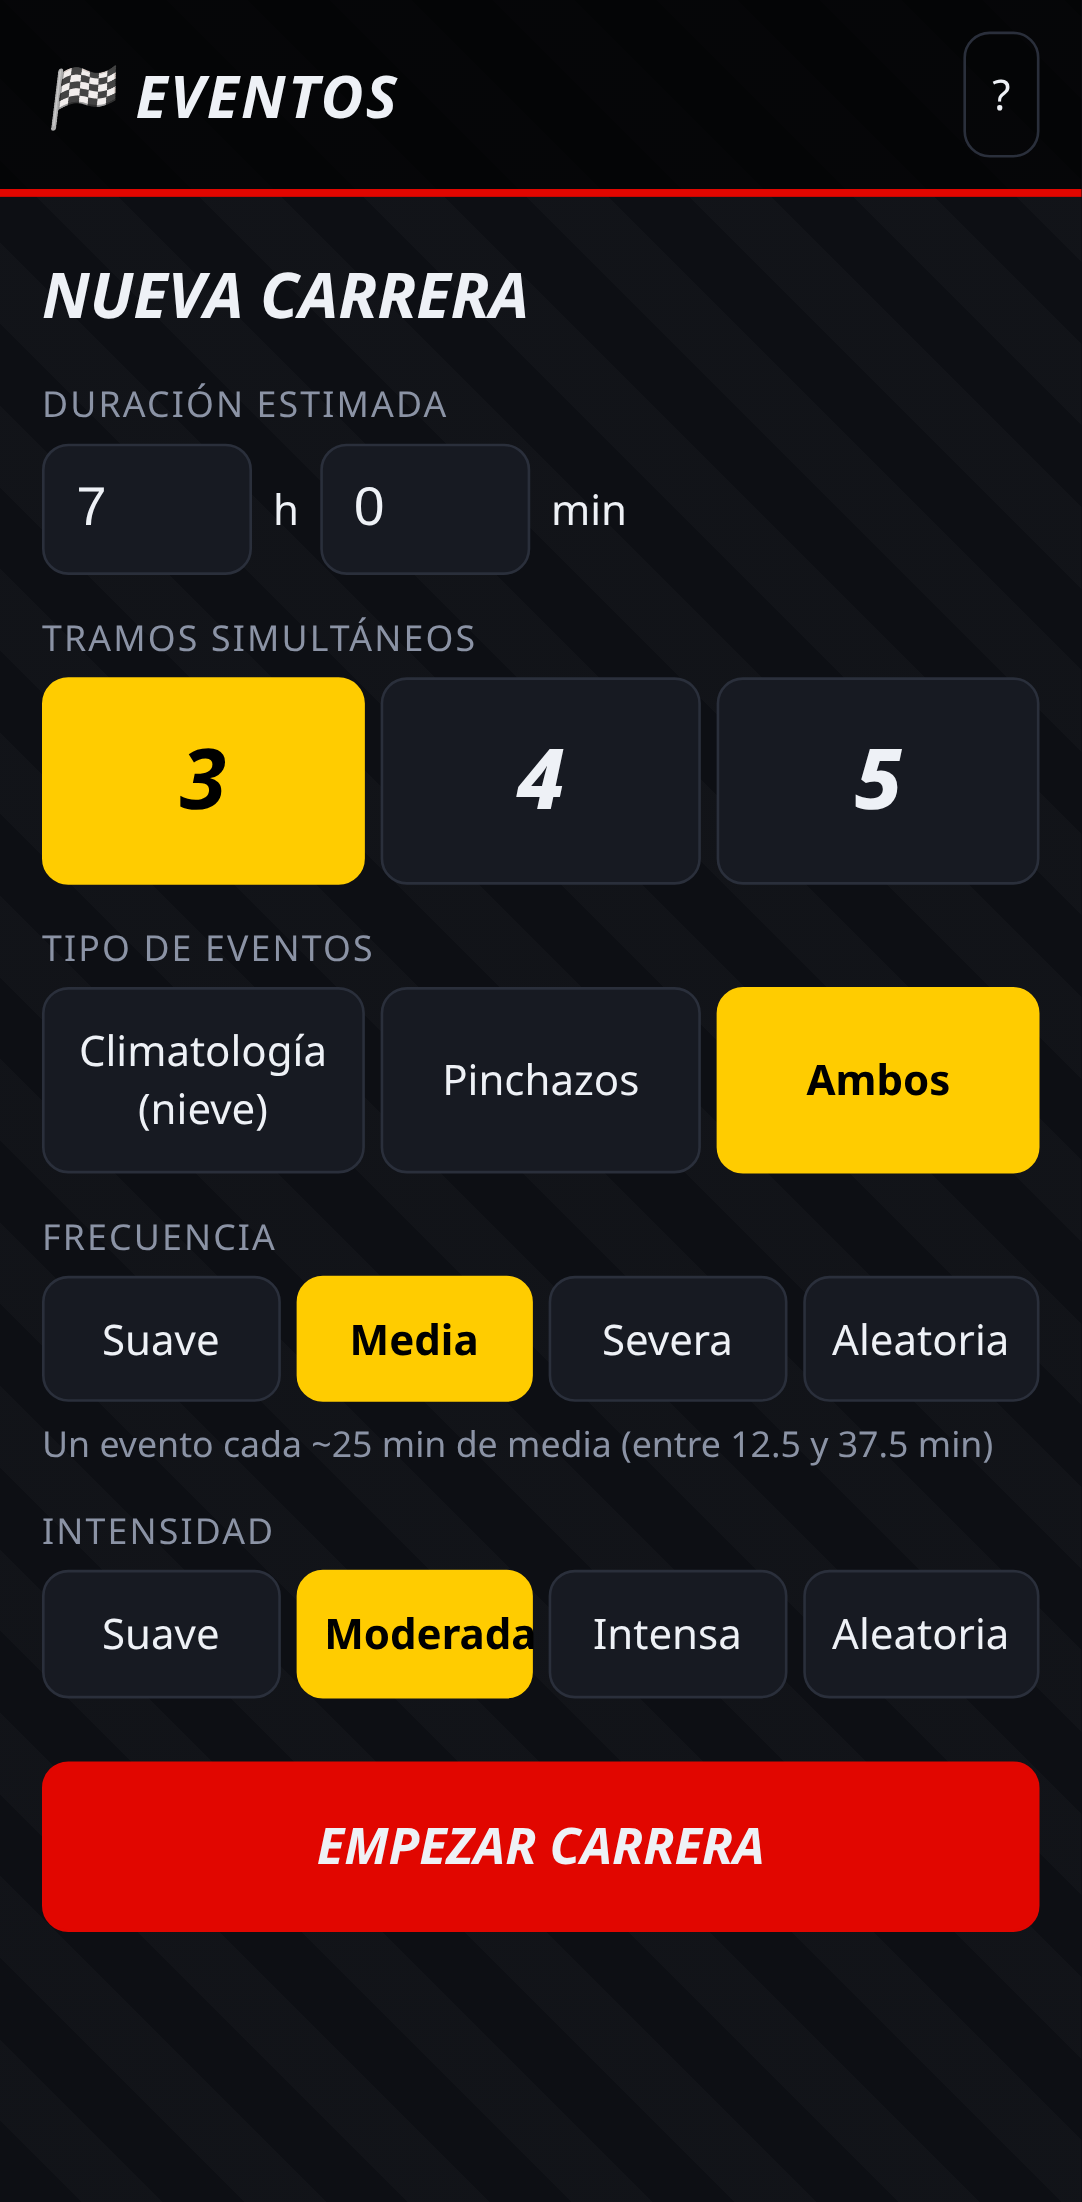
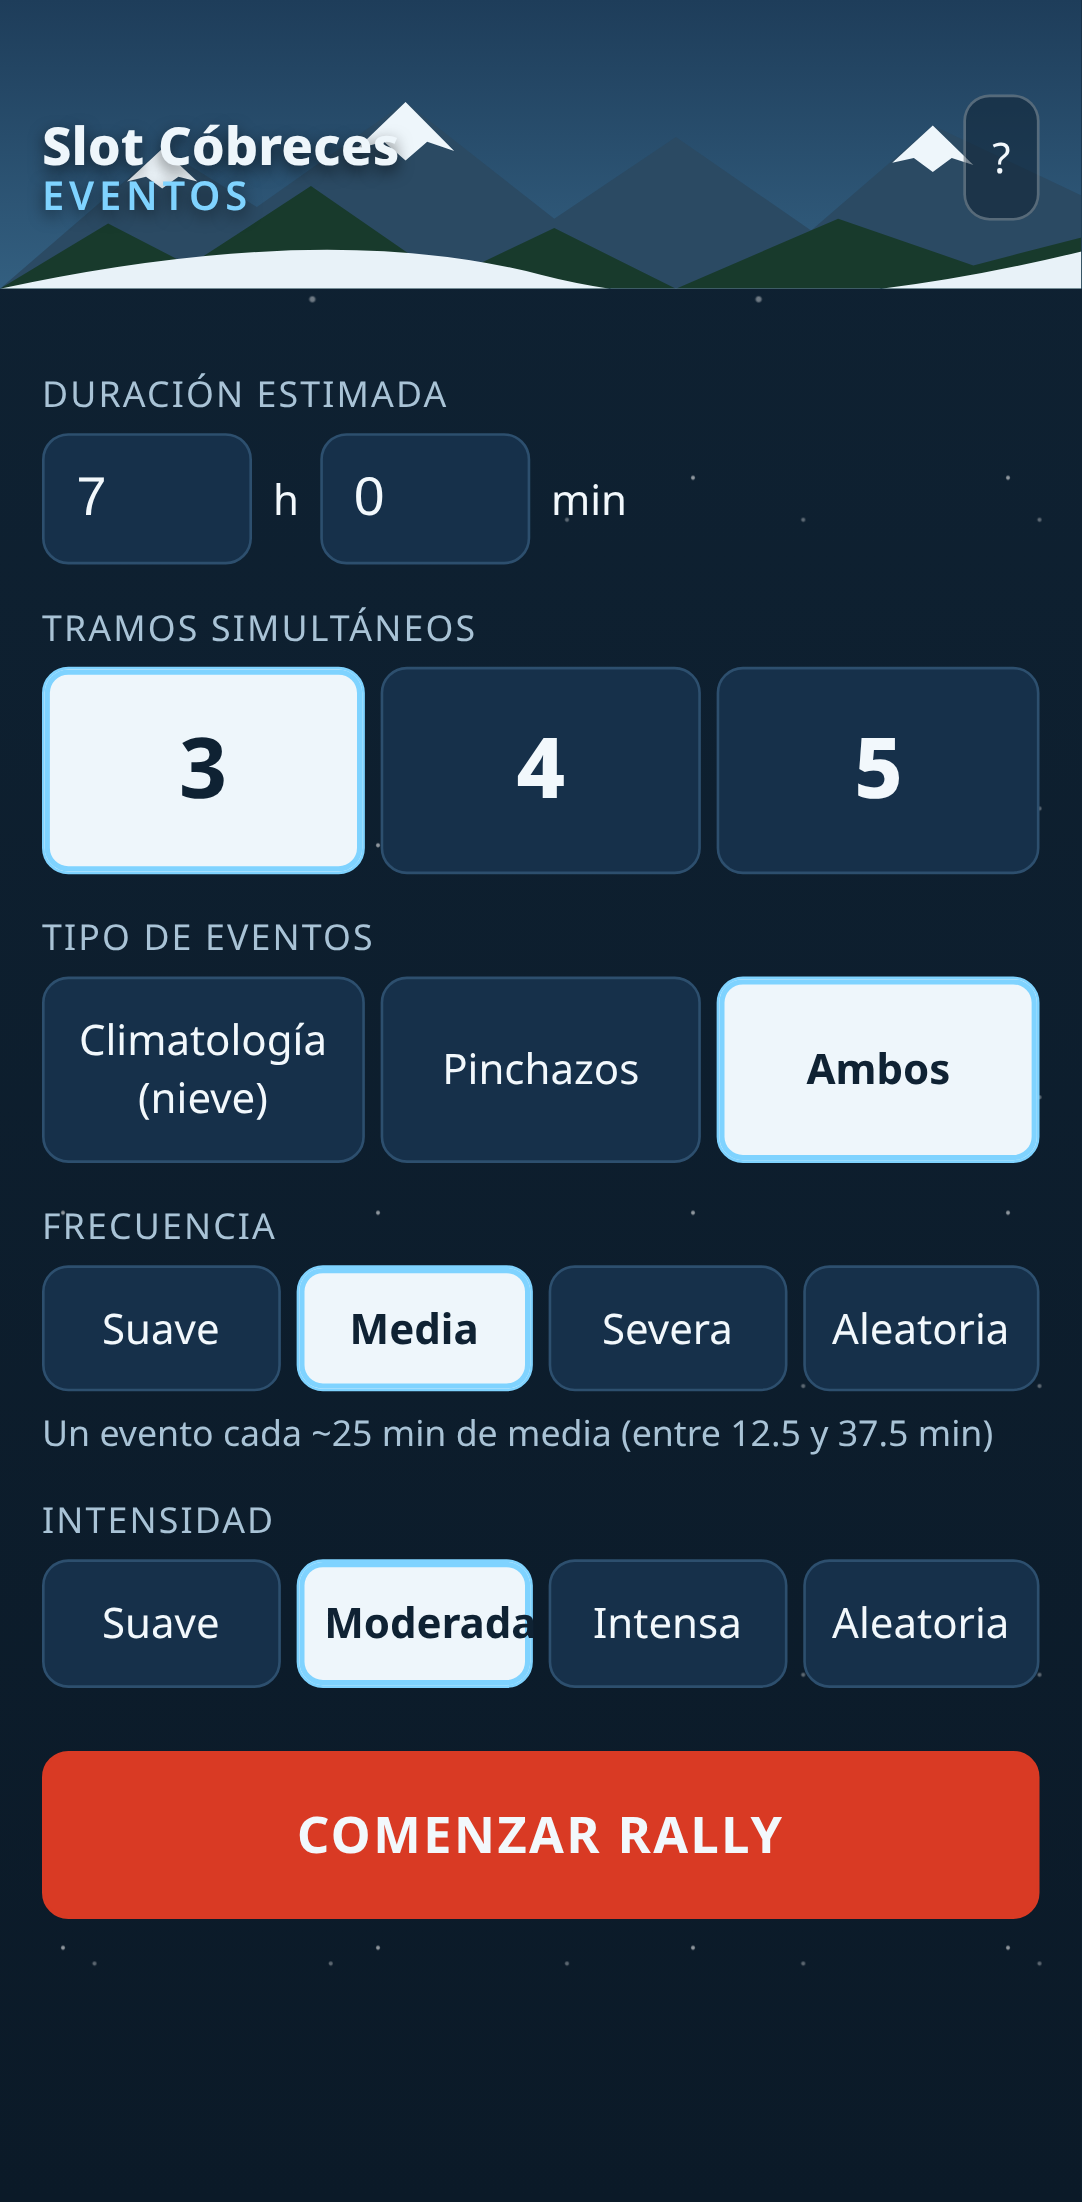
Deploy v5

diff --git a/style.css b/style.css
@@ -1,49 +1,54 @@
 *{box-sizing:border-box}
-:root{--bg:#0d0f14;--card:#171a22;--line:#2a2f3b;--txt:#eef1f6;--mut:#8b93a5;--red:#e10600;--yel:#ffcc00;--grn:#2ecc71}
+:root{--bg:#0f2233;--card:#16304a;--line:#2d4f6e;--txt:#f2f8fc;--mut:#a9c3d6;--ice:#7fd3ff;--pine:#2f7d5b;--snow:#eef6fb;--alert:#ff5a3c;--warn:#ffd23f}
 html,body{margin:0;background:var(--bg);color:var(--txt);font:16px/1.4 system-ui,-apple-system,"Segoe UI",Roboto,sans-serif}
-body{background-image:repeating-linear-gradient(45deg,#0000 0 22px,#ffffff05 22px 44px);min-height:100vh;padding-bottom:env(safe-area-inset-bottom)}
-header{display:flex;justify-content:space-between;align-items:center;padding:12px 16px;border-bottom:3px solid var(--red);background:#000a}
-h1{margin:0;font-size:1.4rem;font-style:italic;letter-spacing:.04em;text-transform:uppercase}
+body{min-height:100vh;padding-bottom:env(safe-area-inset-bottom);background:radial-gradient(1px 1px at 20% 30%,#fff8 50%,#0000),radial-gradient(1.5px 1.5px at 70% 60%,#fff6 50%,#0000),radial-gradient(1px 1px at 40% 80%,#fff5 50%,#0000),linear-gradient(#0f2233,#0b1a28) fixed;background-size:120px 140px,170px 190px,90px 110px,auto}
+header{position:relative;display:flex;justify-content:space-between;align-items:flex-end;padding:18px 16px 26px;min-height:110px;background:linear-gradient(#1e3d5a,#335f80);overflow:hidden}
+.mtn{position:absolute;left:0;right:0;bottom:0;width:100%;height:80px}
+header h1,header button{position:relative}
+h1{margin:0;font-size:1.25rem;font-weight:800;color:var(--snow);text-shadow:0 2px 6px #0009;line-height:1.1}
+h1 span{display:block;color:var(--ice);font-size:.95rem;font-weight:600;letter-spacing:.12em;text-transform:uppercase}
 main{max-width:560px;margin:0 auto;padding:16px}
-h2{margin:.2em 0 .6em;text-transform:uppercase;font-style:italic}
+h2{margin:.2em 0 .6em}
 label{display:block;margin:14px 0 6px;color:var(--mut);font-size:.85rem;text-transform:uppercase;letter-spacing:.06em}
 .row{display:flex;gap:8px;align-items:center}
 input[type=number]{width:80px;padding:12px;font-size:1.3rem;background:var(--card);border:1px solid var(--line);color:var(--txt);border-radius:10px}
 .seg{display:flex;flex-wrap:wrap;gap:6px}
 .seg button{flex:1 1 0;min-width:70px}
 button{font:inherit;padding:12px 10px;border-radius:10px;border:1px solid var(--line);background:var(--card);color:var(--txt);cursor:pointer}
-.seg button.on{background:var(--yel);color:#000;border-color:var(--yel);font-weight:700}
-.primary{background:var(--red);border-color:var(--red);font-weight:700}
-.danger{background:#333;border-color:#555}
-.ghost{background:transparent}
-.big{width:100%;margin-top:24px;padding:18px;font-size:1.2rem;text-transform:uppercase;font-style:italic}
+.seg button.on{background:var(--snow);color:#0f2233;border-color:var(--ice);font-weight:700;box-shadow:0 0 0 2px var(--ice) inset}
+.primary{background:#d93a24;border-color:#d93a24;font-weight:700}
+.danger{background:#2a3c4d;border-color:#46637d}
+.ghost{background:#0f223388;border-color:#ffffff44}
+.big{width:100%;margin-top:24px;padding:18px;font-size:1.2rem;text-transform:uppercase;letter-spacing:.05em}
 .hint{color:var(--mut);font-size:.85rem;margin:6px 0 0}
 .hidden{display:none!important}
-.timer{text-align:center;background:var(--card);border:1px solid var(--line);border-radius:16px;padding:16px;position:relative}
-.tbig{font-size:clamp(3rem,16vw,5rem);font-weight:800;font-variant-numeric:tabular-nums;letter-spacing:.02em}
+.timer{text-align:center;background:var(--card);border:1px solid var(--line);border-radius:16px;padding:16px}
+.tbig{font-size:clamp(3rem,16vw,5rem);font-weight:800;font-variant-numeric:tabular-nums;color:var(--snow)}
 .tlabel{color:var(--mut);text-transform:uppercase;font-size:.8rem;letter-spacing:.08em}
 .tlabel span{color:var(--txt);font-variant-numeric:tabular-nums;font-size:1rem}
-.paused{margin-top:8px;color:var(--yel);font-weight:800;letter-spacing:.2em}
-.current{margin:14px 0;padding:20px;border-radius:16px;text-align:center;background:linear-gradient(135deg,#1d2230,#11141b);border:2px solid var(--line)}
-.current.alert{border-color:var(--yel);animation:flash 1s 4}
-@keyframes flash{50%{background:#5a0000}}
-.cicon{font-size:3.5rem}
-.ctext{font-size:1.8rem;font-weight:800;text-transform:uppercase;font-style:italic}
+.paused{margin-top:8px;color:var(--warn);font-weight:800;letter-spacing:.2em}
+.current{margin:14px 0;padding:20px;border-radius:16px;text-align:center;background:linear-gradient(160deg,#21486a,#123049);border:2px solid var(--line);color:var(--ice)}
+.current.alert{border-color:var(--warn);animation:flash 1s 4}
+@keyframes flash{50%{background:#8a1d10;border-color:var(--alert)}}
+.ico{width:1em;height:1em;vertical-align:middle}
+.cicon{font-size:4rem;line-height:1}
+.ctext{font-size:1.8rem;font-weight:800;text-transform:uppercase;color:var(--snow)}
 .ctime{color:var(--mut)}
 .btns button{flex:1;padding:16px;font-size:1.1rem}
 .toggle{display:flex;gap:10px;align-items:center;text-transform:none;font-size:1rem;color:var(--txt)}
-.toggle input{width:22px;height:22px;accent-color:var(--red)}
+.toggle input{width:22px;height:22px;accent-color:var(--ice)}
 #notifBtn{width:100%;margin-top:8px}
 .history{list-style:none;padding:0;margin:0}
-.history li{display:flex;gap:10px;padding:10px 12px;border-bottom:1px solid var(--line);background:var(--card)}
+.history li{display:flex;gap:10px;align-items:center;padding:10px 12px;border-bottom:1px solid var(--line);background:var(--card)}
 .history li:first-child{border-radius:10px 10px 0 0}
-.history time{color:var(--yel);font-variant-numeric:tabular-nums;min-width:72px}
+.history time{color:var(--ice);font-variant-numeric:tabular-nums;min-width:72px}
+.history .hi{color:var(--ice);font-size:1.3rem;display:flex}
 h3{margin:20px 0 8px;text-transform:uppercase;font-size:.95rem;color:var(--mut)}
 dialog{background:var(--card);color:var(--txt);border:1px solid var(--line);border-radius:16px;max-width:520px}
 dialog::backdrop{background:#000c}
-.note{background:#2a2200;border-left:4px solid var(--yel);padding:8px 10px;border-radius:6px}
-.tramosel button{font-size:2rem;font-weight:800;padding:16px;font-style:italic}
+.note{background:#3a2e08;border-left:4px solid var(--warn);padding:8px 10px;border-radius:6px}
+.tramosel button{font-size:2rem;font-weight:800;padding:16px}
 .tramos{display:grid;gap:6px;margin-bottom:14px}
-.tramo{background:var(--card);border:1px solid var(--line);border-radius:12px;padding:8px 4px;text-align:center;display:flex;flex-direction:column;gap:2px;min-width:0}
-.tramo b{color:var(--yel);font-style:italic}.tramo .ti{font-size:1.6rem}.tramo small{font-size:.72rem;line-height:1.2}
-.tramo time{color:var(--mut);font-size:.7rem}.tramo.new{border-color:var(--yel);background:#2a2200}
+.tramo{background:linear-gradient(#1b3b57,#14402f);border:1px solid var(--line);border-radius:12px;padding:8px 4px;text-align:center;display:flex;flex-direction:column;gap:2px;min-width:0;color:var(--ice)}
+.tramo b{color:var(--snow)}.tramo .ti{font-size:1.8rem}.tramo small{font-size:.72rem;line-height:1.2;color:var(--txt)}
+.tramo time{color:var(--mut);font-size:.7rem}.tramo.new{border-color:var(--warn);box-shadow:0 0 0 2px var(--warn) inset}

diff --git a/app.js b/app.js
@@ -22,13 +22,26 @@ function makeEvent(cfg, r = Math.random) {
   let ev;
   if (kind === 'pinchazos') {
     const slow = r() < SLOW_P[cfg.intensity];
-    ev = { kind, icon: slow ? '🛞' : '💥', label: slow ? 'Pinchazo lento' : 'Reventón' };
+    ev = { kind, icon: slow ? 'slow' : 'blowout', label: slow ? 'Pinchazo lento' : 'Reventón' };
   } else {
     const lvl = cfg.intensity === 'aleatoria' ? pick(Object.keys(SNOW), r) : cfg.intensity;
-    ev = { kind, icon: '❄', label: SNOW[lvl], level: lvl };
+    ev = { kind, icon: 'snow', label: SNOW[lvl], level: lvl };
   }
   return { ...ev, tramo, text: `Tramo ${tramo}: ${ev.label}` };
 }
+
+// ===== Iconos SVG =====
+const SVG = p => `<svg viewBox="0 0 48 48" class="ico" aria-hidden="true">${p}</svg>`;
+const FLAKE = '<g stroke="currentColor" stroke-width="3" stroke-linecap="round" fill="none"><path d="M24 4v40M6.7 14l34.6 20M6.7 34l34.6-20"/><path d="M18 7l6 5 6-5M18 41l6-5 6 5M5 21l8 0-3-7M43 27l-8 0 3 7M5 27l8 0-3 7M43 21l-8 0 3-7"/></g>';
+const TYRE = '<circle cx="24" cy="24" r="18" fill="none" stroke="currentColor" stroke-width="6"/><circle cx="24" cy="24" r="6" fill="currentColor"/>';
+const ICONS = {
+  snow: SVG(FLAKE),
+  slow: SVG(TYRE + '<path d="M34 36q6 4 10 2" stroke="currentColor" stroke-width="3" fill="none" stroke-linecap="round"/>'),
+  blowout: SVG(TYRE + '<path d="M38 6l3 7 6-2-4 6 5 4-7 1 1 7-5-5" fill="#ff5a3c"/>'),
+  road: SVG('<path d="M2 38l14-22 8 10 8-14 14 26z" fill="currentColor" opacity=".35"/><path d="M14 46c6-8 22-6 18-16s-12-6-6-14" stroke="currentColor" stroke-width="4" fill="none" stroke-dasharray="4 4" stroke-linecap="round"/>'),
+  finish: SVG('<path d="M4 40l14-24 8 11 7-11 11 24z" fill="currentColor"/><path d="M14 23l4-7 4 6M29 18l4-2 3 6" fill="#fff"/>')
+};
+const ic = k => ICONS[k] || k;
 
 // ===== Estado (basado en marcas de tiempo) =====
 let S = null;
@@ -78,7 +91,7 @@ async function notify(ev) {
   if (!('Notification' in window) || Notification.permission !== 'granted' || !navigator.serviceWorker) return;
   try {
     const reg = await navigator.serviceWorker.ready;
-    await reg.showNotification('🏁 ' + ev.text, { body: 'Tiempo de carrera ' + fmt(ev.at), icon: 'icons/icon-192.png',
+    await reg.showNotification('❄ ' + ev.text, { body: 'Tiempo de rally ' + fmt(ev.at), icon: 'icons/icon-192.png',
       badge: 'icons/icon-192.png', tag: 'eventos-rally', renotify: true, requireInteraction: true, vibrate: [400, 150, 400, 150, 800] });
   } catch (e) { /* ignore */ }
 }
@@ -117,21 +130,21 @@ function render() {
   $('#pauseBtn').textContent = S.pausedAt ? 'Reanudar' : 'Pausa';
   $('#pauseBtn').disabled = S.finished;
   const last = S.events.at(-1);
-  $('#current .cicon').textContent = S.finished ? '🏁' : last ? last.icon : '🟢';
-  $('#current .ctext').textContent = S.finished ? 'Carrera terminada' : last ? last.text : 'Pista despejada';
+  $('#current .cicon').innerHTML = ic(S.finished ? 'finish' : last ? last.icon : 'road');
+  $('#current .ctext').textContent = S.finished ? 'Rally terminado' : last ? last.text : 'Tramos despejados';
   $('#current .ctime').textContent = last && !S.finished ? 'en el minuto ' + fmt(last.at) : '';
   const n = S.cfg.tramos || 3, tg = $('#tramos');
   tg.style.gridTemplateColumns = `repeat(${n},1fr)`;
   tg.innerHTML = Array.from({ length: n }, (_, i) => {
     const e = S.events.filter(x => x.tramo === i + 1).at(-1);
-    return `<div class="tramo${e && e === last ? ' new' : ''}" data-tramo="${i + 1}"><b>T${i + 1}</b><span class="ti">${e ? e.icon : '🟢'}</span><small>${e ? e.label : 'Despejado'}</small>${e ? `<time>${fmt(e.at)}</time>` : ''}</div>`;
+    return `<div class="tramo${e && e === last ? ' new' : ''}" data-tramo="${i + 1}"><b>T${i + 1}</b><span class="ti">${ic(e ? e.icon : 'road')}</span><small>${e ? e.label : 'Despejado'}</small>${e ? `<time>${fmt(e.at)}</time>` : ''}</div>`;
   }).join('');
   const h = $('#history');
   if (h.childElementCount !== S.events.length) {
     h.innerHTML = '';
     S.events.slice().reverse().forEach(e => {
       const li = document.createElement('li');
-      li.innerHTML = `<time>${fmt(e.at)}</time><span>${e.icon} ${e.text}</span>`;
+      li.innerHTML = `<time>${fmt(e.at)}</time><span class="hi">${ic(e.icon)}</span><span>${e.text}</span>`;
       h.appendChild(li);
     });
   }
@@ -154,7 +167,7 @@ function init() {
     render();
   };
   $('#pauseBtn').onclick = () => { S.pausedAt ? resume() : pause(); render(); };
-  $('#endBtn').onclick = () => { if (confirm('¿Finalizar la carrera?')) { S = null; save(); render(); } };
+  $('#endBtn').onclick = () => { if (confirm('¿Finalizar el rally?')) { S = null; save(); render(); } };
   $('#wakeToggle').onchange = e => setWake(e.target.checked);
   $('#notifBtn').onclick = () => Notification.requestPermission().then(render);
   $('#helpBtn').onclick = () => $('#help').showModal();

diff --git a/index.html b/index.html
@@ -3,19 +3,25 @@
 <head>
 <meta charset="utf-8">
 <meta name="viewport" content="width=device-width,initial-scale=1,viewport-fit=cover">
-<meta name="theme-color" content="#0d0f14">
-<title>Eventos · Rally Scalextric</title>
+<meta name="theme-color" content="#0f2233">
+<title>Slot Cóbreces - Eventos</title>
 <link rel="manifest" href="manifest.webmanifest">
 <link rel="icon" href="icons/icon-192.png">
 <link rel="apple-touch-icon" href="icons/icon-192.png">
 <link rel="stylesheet" href="style.css">
 </head>
 <body>
-<header><h1>🏁 Eventos</h1><button id="helpBtn" class="ghost" aria-label="Ayuda">?</button></header>
+<header>
+  <svg class="mtn" viewBox="0 0 400 90" preserveAspectRatio="none" aria-hidden="true">
+    <path d="M0 90L60 30 95 55 150 10 205 60 250 25 300 65 345 20 400 50V90z" fill="#2b4a63"/>
+    <path d="M150 10l-18 20 10-3 8 8 8-8 10 4zM345 20l-15 16 8-2 7 6 7-6 8 3zM60 30l-13 14 7-2 6 5 6-5 7 2z" fill="#eef6fb"/>
+    <path d="M0 90l40-28 30 18 45-34 50 40 40-22 45 26 60-30 50 20 40-12V90z" fill="#183a2c"/>
+    <path d="M0 90q120-30 200-6t200-10V90z" fill="#e8f2f8"/>
+  </svg>
+  <h1>Slot Cóbreces <span>Eventos</span></h1><button id="helpBtn" class="ghost" aria-label="Ayuda">?</button></header>
 
 <main>
 <section id="setup" class="screen">
-  <h2>Nueva carrera</h2>
   <label>Duración estimada</label>
   <div class="row">
     <input id="hours" type="number" min="0" max="48" value="7" inputmode="numeric"><span>h</span>
@@ -38,7 +44,7 @@
   <div class="seg" data-name="intensity">
     <button data-v="suave">Suave</button><button data-v="moderada" class="on">Moderada</button><button data-v="intensa">Intensa</button><button data-v="aleatoria">Aleatoria</button>
   </div>
-  <button id="startBtn" class="primary big">Empezar carrera</button>
+  <button id="startBtn" class="primary big">Comenzar rally</button>
 </section>
 
 <section id="race" class="screen hidden">
@@ -48,11 +54,11 @@
     <div class="tlabel">Transcurrido <span id="elapsed">00:00:00</span></div>
     <div id="pausedTag" class="paused hidden">EN PAUSA</div>
   </div>
-  <div id="current" class="current"><div class="cicon">🟢</div><div class="ctext">Pista despejada</div><div class="ctime"></div></div>
+  <div id="current" class="current"><div class="cicon"></div><div class="ctext">Tramos despejados</div><div class="ctime"></div></div>
   <div id="tramos" class="tramos"></div>
   <div class="row btns">
     <button id="pauseBtn" class="primary">Pausa</button>
-    <button id="endBtn" class="danger">Finalizar</button>
+    <button id="endBtn" class="danger">Finalizar rally</button>
   </div>
   <label class="toggle"><input type="checkbox" id="wakeToggle"> Mantener pantalla encendida</label>
   <button id="notifBtn" class="ghost hidden">Activar notificaciones</button>
@@ -63,10 +69,10 @@
 
 <dialog id="help">
   <h2>Ayuda</h2>
-  <p>Eventos simula un rally: durante la carrera lanza al azar eventos en los tramos: nevadas (suave, moderada o intensa; la nieve es harina en pista) y pinchazos («Pinchazo lento» o «Reventón»). Cada evento cae en un tramo al azar y solo se anuncia: no tiene duración ni aviso de fin. Con intensidad suave predominan los pinchazos lentos; con intensa, los reventones.</p>
+  <p>Eventos simula un rally: durante el rally lanza al azar eventos en los tramos: nevadas (suave, moderada o intensa; la nieve es harina en pista) y pinchazos («Pinchazo lento» o «Reventón»). Cada evento cae en un tramo al azar y solo se anuncia: no tiene duración ni aviso de fin. Con intensidad suave predominan los pinchazos lentos; con intensa, los reventones.</p>
   <p><b>Frecuencia</b> (intervalo medio entre eventos, cada intervalo varía ±50 % al azar):<br>
   Suave ≈ 45 min · Media ≈ 25 min · Severa ≈ 12 min · Aleatoria: cada intervalo entre 8 y 50 min.</p>
-  <p><b>Pausa</b> congela el tiempo y los eventos (ideal para comer). La carrera se guarda: si recargas la página, continúa donde estaba.</p>
+  <p><b>Pausa</b> congela el tiempo y los eventos (ideal para comer). El rally se guarda: si recargas la página, continúa donde estaba.</p>
   <p>Cada evento muestra una notificación, suena una alarma y vibra. Activa «Mantener pantalla encendida» para que la pantalla no se apague. Si la app estaba en segundo plano, al volver se muestran los eventos pendientes.</p>
   <p class="note">⚠ Con el móvil bloqueado durante mucho tiempo, el navegador puede suspender la app y las alertas pueden no llegar a tiempo. Esto requiere un servidor de notificaciones push, que llegará en una versión futura.</p>
   <form method="dialog"><button class="primary">Entendido</button></form>

diff --git a/tests/eventos.spec.js b/tests/eventos.spec.js
@@ -87,10 +87,10 @@ test('recargar reanuda la carrera y recupera eventos pendientes', async ({ page 
   await expect(page.locator('#elapsed')).toHaveText('01:10:00');
   expect(await page.locator('#history li').count()).toBeGreaterThan(evs);
 });
-test('la carrera termina al acabar el tiempo y Finalizar vuelve al inicio', async ({ page }) => {
+test('la carrera termina al acabar el tiempo y Finalizar rally vuelve al inicio', async ({ page }) => {
   await start(page, 'media');
   await page.clock.fastForward(2 * H + M);
-  await expect(page.locator('#current .ctext')).toHaveText('Carrera terminada');
+  await expect(page.locator('#current .ctext')).toHaveText('Rally terminado');
   await expect(page.locator('#remaining')).toHaveText('00:00:00');
   await page.click('#endBtn');
   await expect(page.locator('#setup')).toBeVisible();

diff --git a/shots.js b/shots.js
@@ -5,7 +5,7 @@ const { chromium, devices } = require('@playwright/test');
   await p.goto(process.argv[2]); await p.clock.pauseAt(new Date('2026-10-15T10:00:02'));
   await p.screenshot({ path: 'screenshots/01-configuracion.png' });
   await p.click('.seg[data-name=tramos] button[data-v="4"]'); await p.fill('#hours','7'); await p.click('#startBtn'); await p.clock.fastForward(120*60e3);
-  await p.waitForTimeout(300); await p.screenshot({ path: 'screenshots/02-carrera.png', fullPage: true });
+  await p.waitForTimeout(300); await p.screenshot({ path: 'screenshots/02-rally.png', fullPage: true });
   await p.click('#pauseBtn'); await p.click('#helpBtn'); await p.screenshot({ path: 'screenshots/03-pausa-ayuda.png' });
   await b.close();
 })();

diff --git a/sw.js b/sw.js
@@ -1,4 +1,4 @@
-const CACHE = 'eventos-v4';
+const CACHE = 'eventos-v5';
 const ASSETS = ['./','index.html','style.css','app.js','manifest.webmanifest','icons/icon-192.png','icons/icon-512.png'];
 self.addEventListener('install', e => { e.waitUntil(caches.open(CACHE).then(c => c.addAll(ASSETS))); self.skipWaiting(); });
 self.addEventListener('activate', e => { e.waitUntil(caches.keys().then(ks => Promise.all(ks.filter(k => k !== CACHE).map(k => caches.delete(k)))).then(() => self.clients.claim())); });

diff --git a/README.md b/README.md
@@ -1,4 +1,4 @@
-# Eventos · Simulador de rally para Scalextric
+# Slot Cóbreces - Eventos · Simulador de rally para Scalextric
 PWA (HTML/CSS/JS sin frameworks) que lanza eventos aleatorios en 3, 4 o 5 tramos simultáneos: nevadas (harina) suave/moderada/intensa y pinchazos («Pinchazo lento» o «Reventón», ponderados por intensidad: lento 80 % suave, 55 % moderada, 25 % intensa, 50 % aleatoria). Los eventos solo se anuncian, sin duración.
 En vivo: https://blancolang-ai.github.io/eventos/
 
